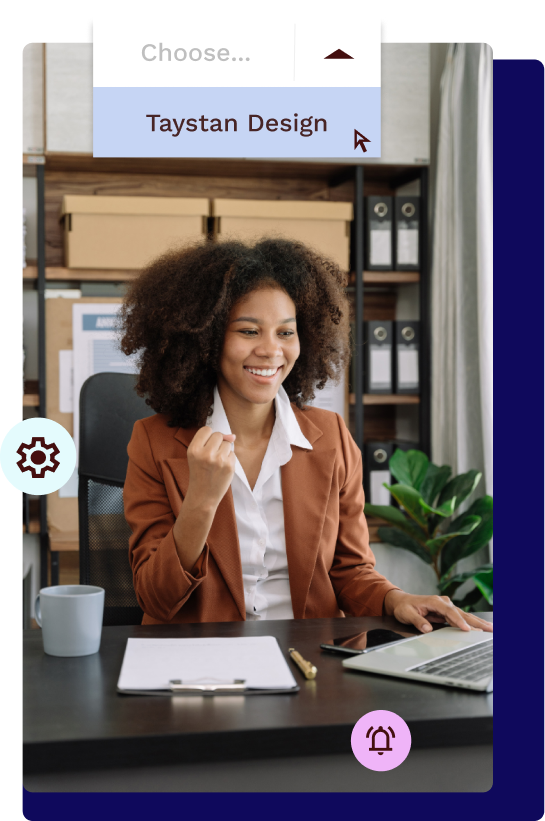
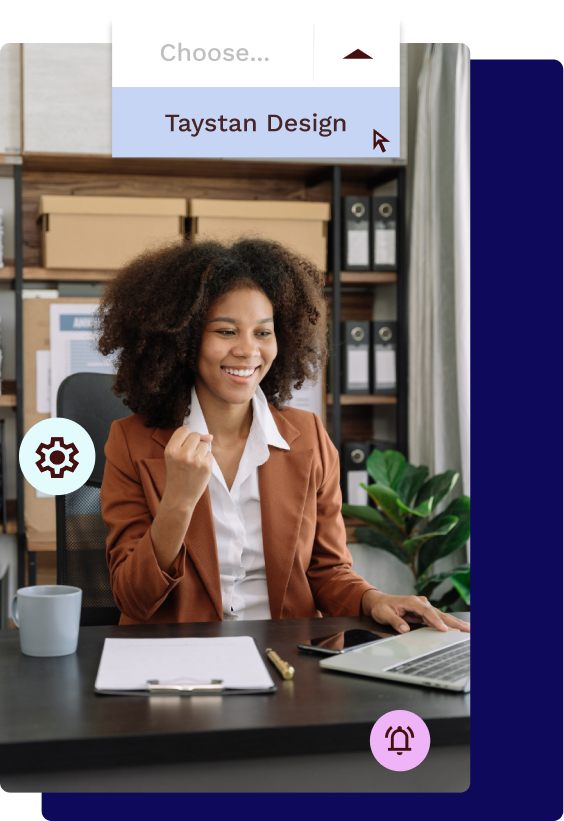
img and buttons radius 10px

diff --git a/assets/styles.css b/assets/styles.css
@@ -59,7 +59,7 @@ a.noLink {
 /* =========== GENERAL ============ */
 .btn {
     padding: 10px 24px 14px 24px;
-    border-radius: 999px;
+    border-radius: 10px;
     font-size: 18px;
     font-weight: 600;
 }
@@ -1690,7 +1690,7 @@ button.accordion-button {
   background-clip: padding-box;
   background-color: var(--dark-red);
   border: 1px solid transparent;
-  border-radius: 999px;
+  border-radius: 10px;
   box-shadow: rgba(0, 0, 0, 0.02) 0 1px 3px 0;
   box-sizing: border-box;
   color: #fff;
@@ -1735,7 +1735,7 @@ button.accordion-button {
   background-clip: padding-box;
   background-color: #fa6400;
   border: 1px solid transparent;
-  border-radius: 999px;
+  border-radius: 10px;
   box-shadow: rgba(0, 0, 0, 0.02) 0 1px 3px 0;
   box-sizing: border-box;
   color: #fff;
@@ -1779,7 +1779,7 @@ button.accordion-button {
   align-items: center;
   background-color: #FFFFFF;
   border: 1px solid rgba(0, 0, 0, 0.1);
-  border-radius: 999px;
+  border-radius: 10px;
   box-shadow: rgba(0, 0, 0, 0.02) 0 1px 3px 0;
   box-sizing: border-box;
   color: rgba(0, 0, 0, 0.85);
